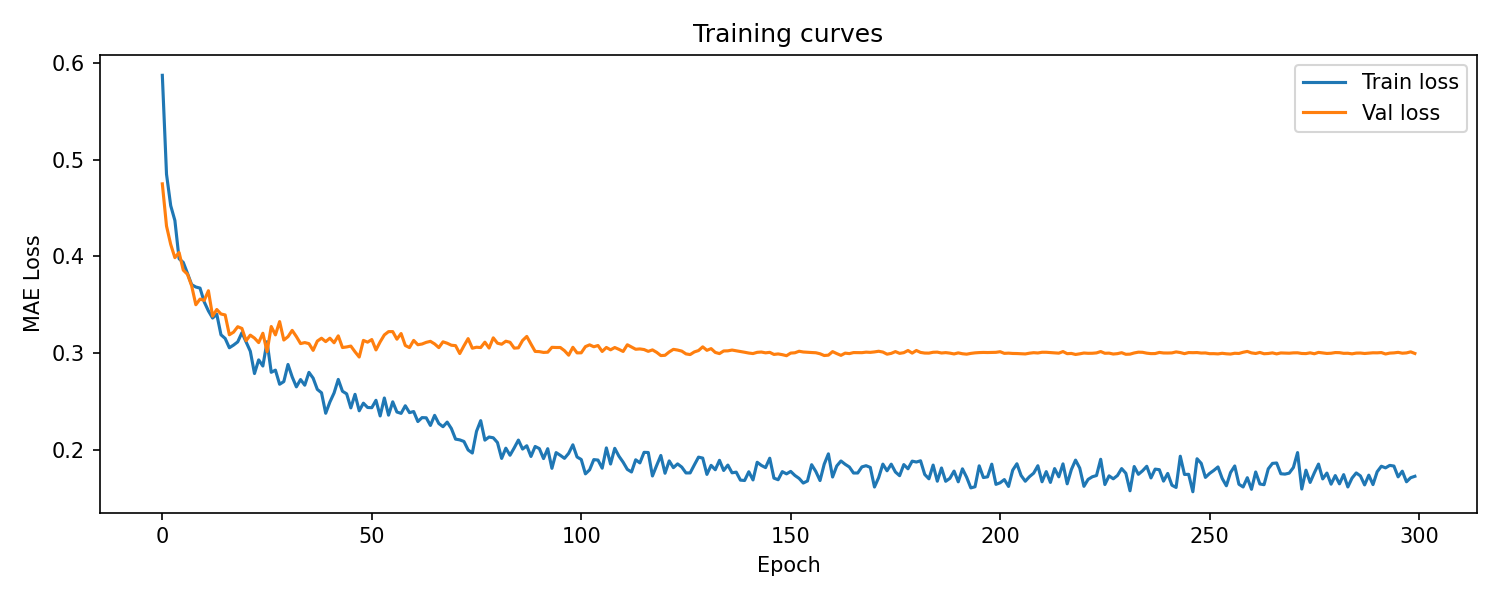
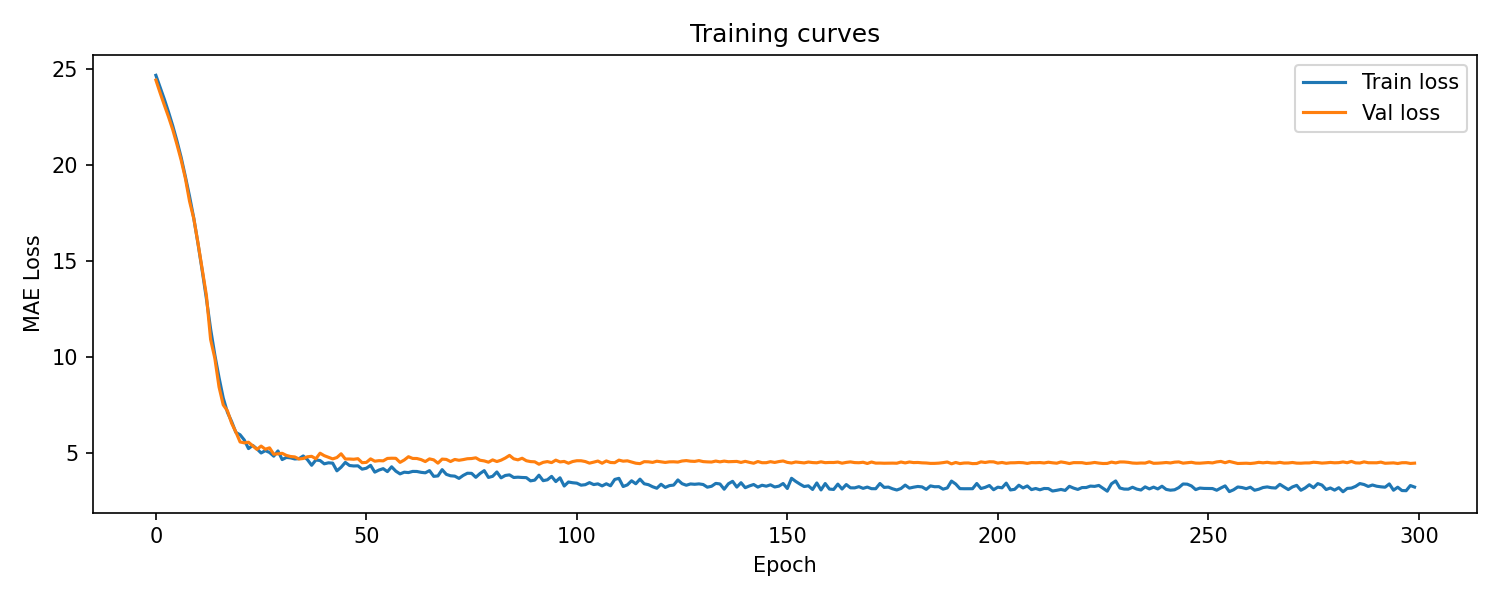
tried a lasso for prediction, cleaned up the visualizations.

diff --git a/src/pipeline/visualize_fd_step.py b/src/pipeline/visualize_fd_step.py
@@ -1,31 +1,34 @@
 # this file visualizes how well the 3D images are approximated by a Tensor
 # basis expansion. This file produces 2d image slices for a random subject
 # and compares it to the corresponding image slice obtained from basis
-# expansion.
+# expansion. We getr
 
 import numpy as np
 import seaborn as sns
 import matplotlib.pyplot as plt
 from skfda.representation.basis import BSplineBasis, TensorBasis
 from skfda import FDataBasis
+import os
 
 #############################
 ### LOAD a random image #####
-L = 1500
+coef_final_path = "artifacts/coefficients_final.npz"
+if os.path.exists(coef_final_path):
+    X = np.load("artifacts/coefficients_final.npz")["coefficients"]  # (3227,1,512)
+else:
+    X = np.load("artifacts/checkpoint.npz")["coefficients"]  # (a,1,512)
+L = X.shape[0]
+
 random_subj = np.random.randint(0, L-1)
 print(f"Visualization for subject {random_subj}")
 file_name = f"data/raw/public_data_challenge/VBM_extracted/VBM_{random_subj}.npy"
 rand_image = np.load(file_name)
 
-total_slices = rand_image.shape[0]
-n_slices = 5 # number of slices we want to visualize
-indices = np.arange(0, total_slices, step=total_slices//n_slices)
-
 #############################
 ### LOAD corresponding coefficients of the TensorBasis
-file_name = f"artifacts/checkpoint.npz"
-all_coefficients = np.load(file_name)["coefficients"]
-all_coefficients = all_coefficients.squeeze(1)
+#file_name = f"artifacts/checkpoint.npz"
+#all_coefficients = np.load(file_name)["coefficients"]
+all_coefficients = X.squeeze(1)
 coefficients = all_coefficients[random_subj, :]
 
 #############################
@@ -55,10 +58,17 @@ values_flat = fd_basis(grid_points_flat)
 values_3d = values_flat[..., 0].reshape(-1, 121, 145, 121)
 
 #############################
-### Plot 5 slices ###
-nrows = n_slices + 1
+### Plot 5 slices - 1st index ###
+
+total_slices = rand_image.shape[0]
+n_slices = 5 # number of slices we want to visualize
+indices = np.arange(0, total_slices, step=total_slices//n_slices)
+
+nrows = len(indices)
 ncols = 2
 fig, axes = plt.subplots(nrows, ncols, figsize=(ncols * 2, nrows * 2))
+fig.subplots_adjust(right=0.8)
+cbar_ax = fig.add_axes([0.85, 0.15, 0.05, 0.7])
 axes = axes.flatten()
 
 for a in range(nrows):
@@ -86,11 +96,188 @@ for a in range(nrows):
 sm = plt.cm.ScalarMappable(cmap="viridis", norm=plt.Normalize(
     vmin=min(rand_image.min(), values_3d.min()), vmax=max(rand_image.max(),
                                                           values_3d.max())))
-fig.colorbar(sm, ax=axes[:n_slices], shrink=0.5, label="Intensity")
+fig.colorbar(sm, cax=cbar_ax, label="Intensity")
 
-plt.suptitle(f"Heatmaps of slices of the first axis for subject{random_subj}",
+plt.suptitle(f"Heatmaps of slices of the first axis for subject {random_subj}",
              fontsize=12,
              y=1.01)
-plt.tight_layout()
 plt.savefig("artifacts/heatmap_first_slice.png", dpi=150, bbox_inches="tight")
 # plt.show()
+
+#############################
+### Plot 5 slices - across 2nd index###
+total_slices = rand_image.shape[1]
+n_slices = 5 # number of slices we want to visualize
+indices = np.arange(0, total_slices, step=total_slices//n_slices)
+
+nrows = len(indices)
+ncols = 2
+fig, axes = plt.subplots(nrows, ncols, figsize=(ncols * 2, nrows * 2))
+fig.subplots_adjust(right=0.8)
+cbar_ax = fig.add_axes([0.85, 0.15, 0.05, 0.7])
+axes = axes.flatten()
+
+for a in range(nrows):
+    sns.heatmap(
+        rand_image[:, indices[a], :],          # shape (109, 91)
+        ax=axes[2*a],
+        cmap="viridis",
+        cbar=False,          # too cluttered with 91 colorbars
+        xticklabels=False,
+        yticklabels=False,
+    )
+    axes[2*a].set_title(f"Original, Slice={indices[a]+1}", fontsize=8)
+
+    sns.heatmap(
+        values_3d[0, :, indices[a], :],  # shape (109, 91)
+        ax=axes[2*a+1],
+        cmap="viridis",
+        cbar=False,  # too cluttered with 91 colorbars
+        xticklabels=False,
+        yticklabels=False,
+    )
+    axes[2*a+1].set_title(f"Approximated, Slice={indices[a] + 1}", fontsize=8)
+
+# Add a single shared colorbar
+sm = plt.cm.ScalarMappable(cmap="viridis", norm=plt.Normalize(
+    vmin=min(rand_image.min(), values_3d.min()), vmax=max(rand_image.max(),
+                                                          values_3d.max())))
+fig.colorbar(sm, cax=cbar_ax, label="Intensity")
+
+plt.suptitle(f"Heatmaps of slices of the second axis for subject"
+             f" {random_subj}",
+             fontsize=12,
+             y=1.01)
+plt.savefig("artifacts/heatmap_second_slice.png", dpi=150, bbox_inches="tight")
+
+#############################
+### Plot 5 slices - across 3rd index###
+total_slices = rand_image.shape[2]
+n_slices = 5 # number of slices we want to visualize
+indices = np.arange(0, total_slices, step=total_slices//n_slices)
+
+nrows = len(indices)
+ncols = 2
+fig, axes = plt.subplots(nrows, ncols, figsize=(ncols * 2, nrows * 2))
+fig.subplots_adjust(right=0.8)
+cbar_ax = fig.add_axes([0.85, 0.15, 0.05, 0.7])
+axes = axes.flatten()
+
+for a in range(nrows):
+    sns.heatmap(
+        rand_image[:, :, indices[a]],          # shape (109, 91)
+        ax=axes[2*a],
+        cmap="viridis",
+        cbar=False,          # too cluttered with 91 colorbars
+        xticklabels=False,
+        yticklabels=False,
+    )
+    axes[2*a].set_title(f"Original, Slice={indices[a]+1}", fontsize=8)
+
+    sns.heatmap(
+        values_3d[0, :, :, indices[a]],  # shape (109, 91)
+        ax=axes[2*a+1],
+        cmap="viridis",
+        cbar=False,  # too cluttered with 91 colorbars
+        xticklabels=False,
+        yticklabels=False,
+    )
+    axes[2*a+1].set_title(f"Approximated, Slice={indices[a] + 1}", fontsize=8)
+
+# Add a single shared colorbar
+sm = plt.cm.ScalarMappable(cmap="viridis", norm=plt.Normalize(
+    vmin=min(rand_image.min(), values_3d.min()), vmax=max(rand_image.max(),
+                                                          values_3d.max())))
+fig.colorbar(sm, cax=cbar_ax, label="Intensity")
+
+plt.suptitle(f"Heatmaps of slices of the third axis for subject {random_subj}",
+             fontsize=12,
+             y=1.01)
+plt.savefig("artifacts/heatmap_third_slice.png", dpi=150, bbox_inches="tight")
+
+####################################################
+### Plot the middle slice across the three axes ###
+mid_indices = [i//2 for i in rand_image.shape]
+
+nrows = 3
+ncols = 2
+fig, axes = plt.subplots(nrows, ncols, figsize=(ncols * 2, nrows * 2))
+fig.subplots_adjust(right=0.8)
+cbar_ax = fig.add_axes([0.85, 0.15, 0.05, 0.7])
+axes = axes.flatten()
+a=0
+sns.heatmap(
+        rand_image[mid_indices[0],:, :],          # shape (109, 91)
+        ax=axes[2*a],
+        cmap="viridis",
+        cbar=False,          # too cluttered with 91 colorbars
+        xticklabels=False,
+        yticklabels=False,
+    )
+axes[2*a].set_title(f"Original, Sagittal View", fontsize=8)
+
+sns.heatmap(
+        values_3d[0, mid_indices[0],:, :],  # shape (109, 91)
+        ax=axes[2*a+1],
+        cmap="viridis",
+        cbar=False,  # too cluttered with 91 colorbars
+        xticklabels=False,
+        yticklabels=False,
+    )
+axes[2*a+1].set_title(f"Approximated, Sagittal View", fontsize=8)
+a = a+1
+
+sns.heatmap(
+        rand_image[:, mid_indices[1], :],          # shape (109, 91)
+        ax=axes[2*a],
+        cmap="viridis",
+        cbar=False,          # too cluttered with 91 colorbars
+        xticklabels=False,
+        yticklabels=False,
+    )
+axes[2*a].set_title(f"Original, Coronal View", fontsize=8)
+
+sns.heatmap(
+        values_3d[0, :,mid_indices[1], :],  # shape (109, 91)
+        ax=axes[2*a+1],
+        cmap="viridis",
+        cbar=False,  # too cluttered with 91 colorbars
+        xticklabels=False,
+        yticklabels=False,
+    )
+axes[2*a+1].set_title(f"Approximated, Coronal View", fontsize=8)
+a = a+1
+
+sns.heatmap(
+        rand_image[:, :, mid_indices[2]],          # shape (109, 91)
+        ax=axes[2*a],
+        cmap="viridis",
+        cbar=False,          # too cluttered with 91 colorbars
+        xticklabels=False,
+        yticklabels=False,
+    )
+axes[2*a].set_title(f"Original, Axial View", fontsize=8)
+
+sns.heatmap(
+        values_3d[0, :,:, mid_indices[2]],  # shape (109, 91)
+        ax=axes[2*a+1],
+        cmap="viridis",
+        cbar=False,  # too cluttered with 91 colorbars
+        xticklabels=False,
+        yticklabels=False,
+    )
+axes[2*a+1].set_title(f"Approximated, Axial View", fontsize=8)
+a = a+1
+
+
+# Add a single shared colorbar
+sm = plt.cm.ScalarMappable(cmap="viridis", norm=plt.Normalize(
+    vmin=min(rand_image.min(), values_3d.min()), vmax=max(rand_image.max(),
+                                                          values_3d.max())))
+fig.colorbar(sm, cax=cbar_ax, label="Intensity")
+plt.suptitle(f"Heatmaps of middle slices of the three axes for subjec"
+             f"t {random_subj}",
+             fontsize=12,
+             y=1.01)
+plt.savefig("artifacts/heatmap_middle_slices.png", dpi=150,
+            bbox_inches="tight")

diff --git a/src/analysis/lasso.py b/src/analysis/lasso.py
@@ -1,0 +1,69 @@
+# this file performs Lasso regression based on the extracted FD coefficients
+import numpy as np
+import os
+from sklearn.metrics import r2_score, mean_absolute_error
+from sklearn.linear_model import Lasso
+from sklearn.model_selection import train_test_split
+from sklearn.preprocessing import StandardScaler
+import matplotlib.pyplot as plt
+
+# --- Load data ---
+coef_final_path = "artifacts/coefficients_final.npz"
+if os.path.exists(coef_final_path):
+    X = np.load("artifacts/coefficients_final.npz")["coefficients"]  # (3227,1,512)
+    X = X.squeeze(1) # (3227, 512)
+    y = np.load("data/raw/public_data_challenge/VBM_extracted/train_y.npy")  # (3227,)
+else:
+    X = np.load("artifacts/checkpoint.npz")["coefficients"]  # (a,1,512)
+    X = X.squeeze(1)  # (a, 512)
+    y = np.load(
+        "data/raw/public_data_challenge/VBM_extracted/train_y.npy")  # (a,)
+    y = y[:X.shape[0]]
+
+'''
+scaler_X = StandardScaler()
+X = scaler_X.fit_transform(X)
+
+scaler_y = StandardScaler()
+y = scaler_y.fit_transform(y.reshape(-1, 1)).ravel()'''
+
+X_train, X_val, y_train, y_val = train_test_split(X, y, test_size=0.15, random_state=42)
+
+# scale the features
+scaler = StandardScaler()
+X_train = scaler.fit_transform(X_train)
+X_val = scaler.transform(X_val)
+
+# Train
+model = Lasso(alpha=0.1, max_iter=5000)
+model.fit(X_train, y_train)
+
+# Evaluate
+y_train_pred = model.predict(X_train)
+y_val_pred = model.predict(X_val)
+
+print(f"\nTrain  ->  R²: {r2_score(y_train, y_train_pred):.4f}  |  MAE: {mean_absolute_error(y_train, y_train_pred):.2f} yrs")
+print(f"Val    ->  R²: {r2_score(y_val, y_val_pred):.4f}  |  MAE: {mean_absolute_error(y_val, y_val_pred):.2f} yrs")
+
+# Plot predicted vs actual
+fig, axes = plt.subplots(1, 2, figsize=(12, 5))
+for ax, y_true, y_pred, title in zip(
+    axes,
+    [y_train, y_val],
+    [y_train_pred, y_val_pred],
+    ['Train', 'Validation']
+):
+    lims = [y_true.min() - 2, y_true.max() + 2]
+    ax.scatter(y_true, y_pred, alpha=0.4, s=15, color='steelblue')
+    ax.plot(lims, lims, 'r--', linewidth=1.5)
+    ax.set_xlim(lims); ax.set_ylim(lims)
+    ax.set_xlabel('Actual Age (yrs)'); ax.set_ylabel('Predicted Age (yrs)')
+    ax.set_title(f'{title}  |  R²={r2_score(y_true, y_pred):.4f}, MAE={mean_absolute_error(y_true, y_pred):.2f} yrs')
+    ax.set_aspect('equal')
+
+plt.suptitle('Brain Age Prediction — Lasso Regression on FDA Features')
+plt.tight_layout()
+plt.savefig('results/figures/brain_age_prediction_lasso.png', dpi=150,
+            bbox_inches='tight')
+print("\nSaved brain_age_prediction.png")
+

diff --git a/src/analysis/train_nn.py b/src/analysis/train_nn.py
@@ -18,15 +18,15 @@ else:
     X = np.load("artifacts/checkpoint.npz")["coefficients"]  # (a,1,512)
     X = X.squeeze(1)  # (a, 512)
     y = np.load(
-        "data/raw/public_data_challenge/VBM_extracted/train_y.npy")  # (3227,)
+        "data/raw/public_data_challenge/VBM_extracted/train_y.npy")  # (a,)
     y = y[:X.shape[0]]
 
 # --- Preprocess ---
 scaler_X = StandardScaler()
 X = scaler_X.fit_transform(X)
 
-scaler_y = StandardScaler()
-y = scaler_y.fit_transform(y.reshape(-1, 1)).ravel()
+#scaler_y = StandardScaler()
+#y = scaler_y.fit_transform(y.reshape(-1, 1)).ravel()
 
 X_train, X_val, y_train, y_val = train_test_split(X, y, test_size=0.15, random_state=42)
 
